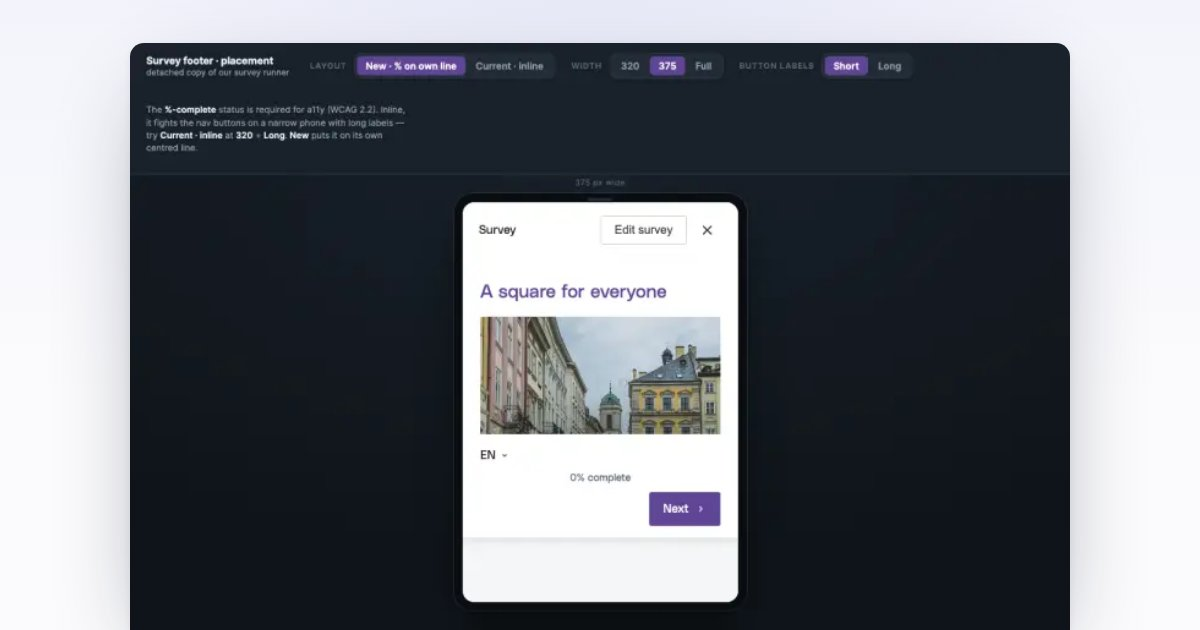
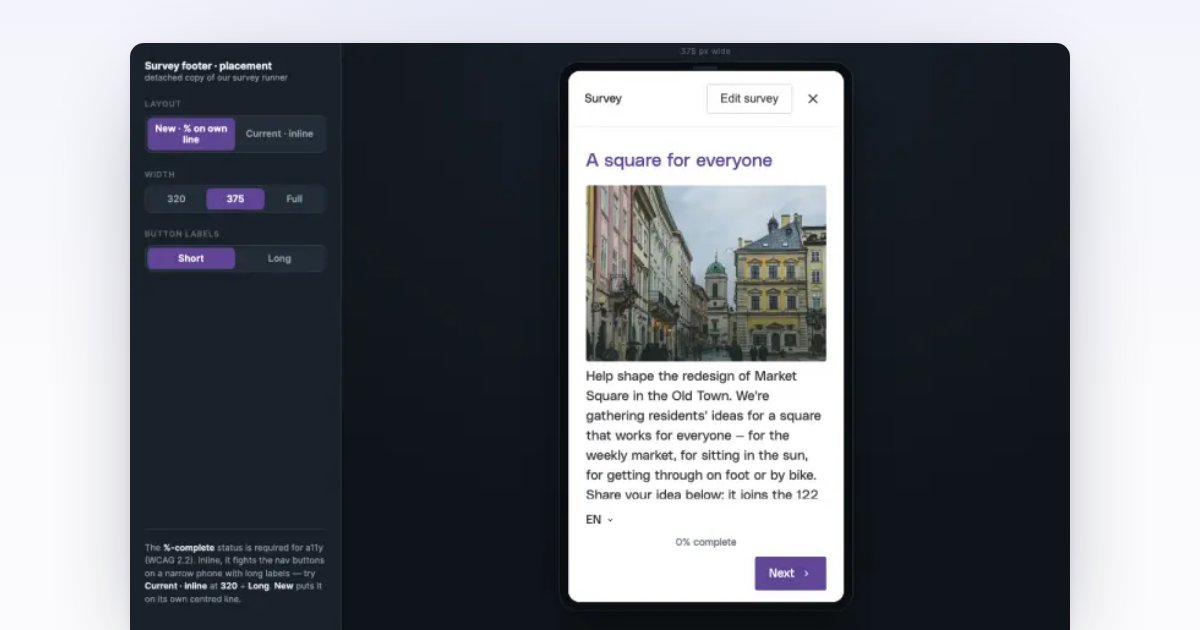
survey-form demo: move controls to a left rail, phone preview to the right
A tall phone previews better with a side controls column than a top bar —
the device gets full viewport height and the horizontal room. Controls stack
vertically (full-width segmented controls, a11y note pinned at the bottom);
narrow viewports fall back to the stacked top-bar layout.

Changed region(s): [[0.1233, 0.0603, 0.7708, 0.9651], [0.1233, 0.8143, 0.2775, 0.9651], [0.1233, 0.2714, 0.2467, 0.4524]]

diff --git a/playground/survey-form/index.html b/playground/survey-form/index.html
@@ -22,27 +22,30 @@
     body {
       margin: 0; background: var(--bg); color: var(--fg);
       font-family: 'Inter', system-ui, -apple-system, 'Segoe UI', Roboto, sans-serif;
-      display: flex; flex-direction: column; overflow: hidden;
+      display: flex; flex-direction: row; overflow: hidden;
     }
 
-    /* Top bar ---------------------------------------------------------------- */
+    /* Left controls rail ----------------------------------------------------- */
+    /* A tall phone previews best with the controls in a side column, not a top
+       bar: the device gets the full viewport height and all the horizontal room. */
     .bar {
-      flex: 0 0 auto; display: flex; align-items: center; gap: 22px;
-      padding: 14px 22px; background: var(--panel);
-      border-bottom: 1px solid var(--line); flex-wrap: wrap;
+      flex: 0 0 288px; display: flex; flex-direction: column; align-items: stretch;
+      gap: 22px; padding: 22px 20px; background: var(--panel);
+      border-right: 1px solid var(--line); height: 100%; overflow-y: auto;
     }
-    .brand { display: flex; flex-direction: column; gap: 1px; margin-right: 6px; }
+    .brand { display: flex; flex-direction: column; gap: 1px; }
     .brand b { font-size: 14px; font-weight: 650; letter-spacing: -0.01em; }
     .brand span { font-size: 11.5px; color: var(--muted); }
 
-    .grp { display: flex; align-items: center; gap: 10px; }
+    .grp { display: flex; flex-direction: column; align-items: stretch; gap: 8px; }
     .grp > label { font-size: 11px; text-transform: uppercase; letter-spacing: 0.08em; color: var(--faint); font-weight: 600; }
 
-    .seg { display: inline-flex; background: var(--panel-2); border: 1px solid var(--line); border-radius: 9px; padding: 3px; gap: 2px; }
+    .seg { display: flex; width: 100%; background: var(--panel-2); border: 1px solid var(--line); border-radius: 9px; padding: 3px; gap: 2px; }
     .seg button {
       appearance: none; border: 0; background: transparent; color: var(--muted);
-      font: inherit; font-size: 13px; font-weight: 550; padding: 6px 12px;
-      border-radius: 6px; cursor: pointer; line-height: 1.1; white-space: nowrap;
+      font: inherit; font-size: 13px; font-weight: 550; padding: 7px 10px;
+      flex: 1 1 0; text-align: center;
+      border-radius: 6px; cursor: pointer; line-height: 1.15; white-space: normal;
       transition: background .12s, color .12s;
     }
     .seg button:hover { color: var(--fg); }
@@ -51,7 +54,8 @@
 
     .spacer { flex: 1 1 auto; }
     .note {
-      font-size: 12px; color: var(--muted); max-width: 360px; line-height: 1.45;
+      font-size: 12px; color: var(--muted); max-width: none; line-height: 1.45;
+      padding-top: 16px; border-top: 1px solid var(--line);
     }
     .note b { color: var(--fg); font-weight: 600; }
 
@@ -83,9 +87,19 @@
       font-size: 11px; color: var(--faint); white-space: nowrap; letter-spacing: .04em;
     }
 
+    /* Narrow viewports can't afford a side rail — fall back to the stacked
+       top-bar layout (controls on top, phone below). */
     @media (max-width: 760px) {
+      body { flex-direction: column; }
+      .bar {
+        flex: 0 0 auto; flex-direction: row; flex-wrap: wrap; align-items: center;
+        gap: 16px; height: auto; overflow: visible;
+        border-right: 0; border-bottom: 1px solid var(--line);
+      }
+      .grp { flex-direction: row; align-items: center; gap: 10px; }
+      .seg { width: auto; }
+      .seg button { flex: 0 0 auto; }
       .note { display: none; }
-      .bar { gap: 14px; }
     }
   </style>
 </head>
